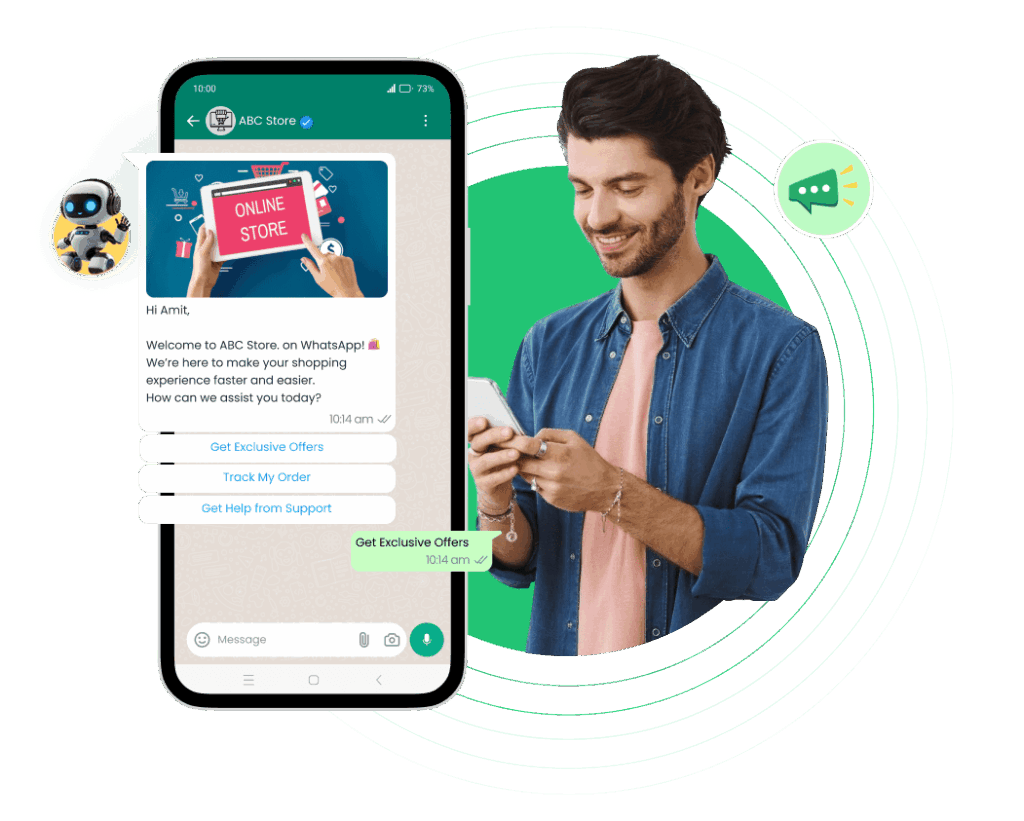
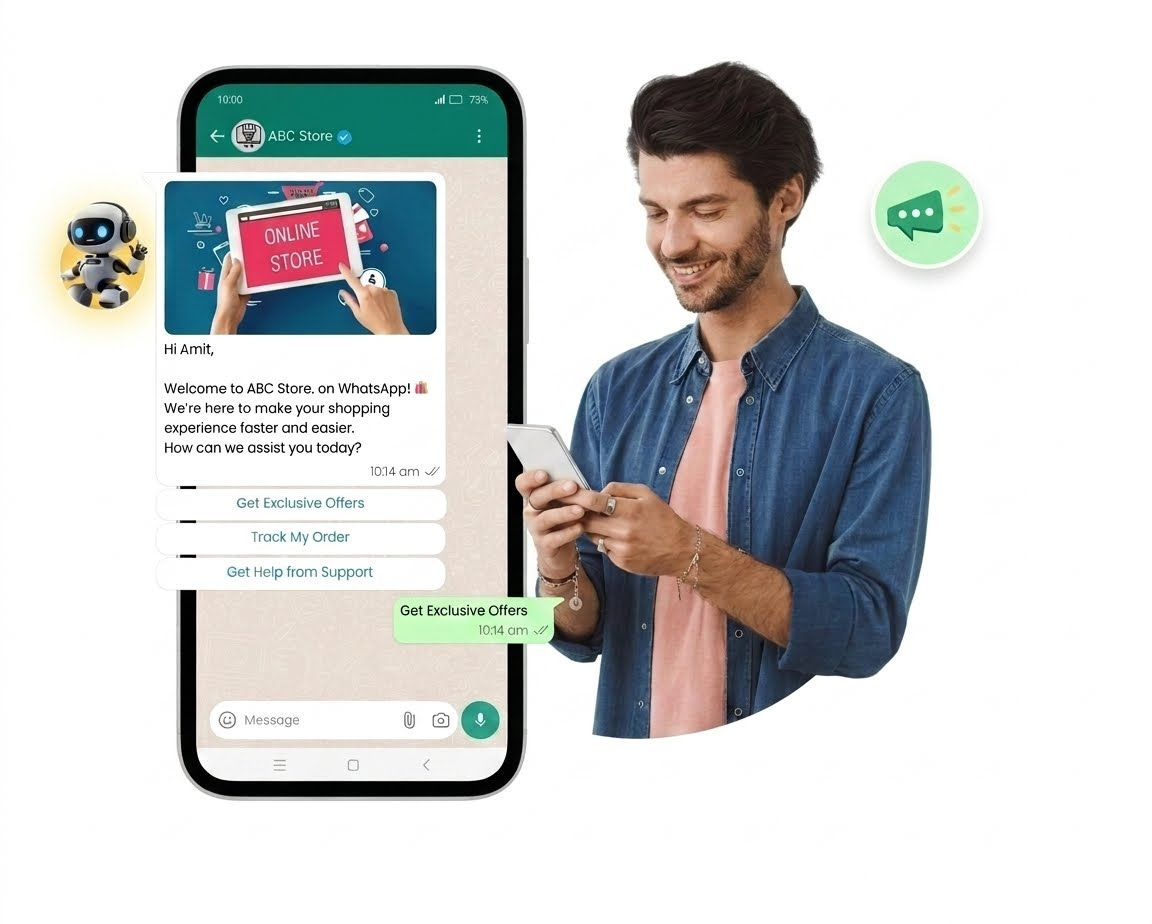
Fix solution image rendering

diff --git a/app/solutions/industry-solution-data.ts b/app/solutions/industry-solution-data.ts
@@ -47,7 +47,7 @@ export type IndustrySolutionConfig = {
   servicesTitle: string
   servicesBody: string
   services: Array<{ icon: LucideIcon; title: string; body: string }>
-  imageOne: { src: string; alt: string }
+  imageOne: { src: string; alt: string; width?: number; height?: number; unoptimized?: boolean }
   imageTwo: { src: string; alt: string }
   audiencesLabel: string
   audiencesTitle: string
@@ -360,8 +360,8 @@ export const solutionPages: Record<string, IndustrySolutionConfig> = {
       { icon: Megaphone, title: "Campaign Broadcasts", body: "Runs launch, sale, restock, and repeat-purchase campaigns on WhatsApp." },
       { icon: Bot, title: "Agent Handoff", body: "Escalates high-value shoppers or complex return cases with full context." },
     ],
-    imageOne: { src: "/images/e_commerce_2.png", alt: "E-commerce customer automation" },
-    imageTwo: { src: "/images/e_commerce_1.png", alt: "E-commerce customer automation" },
+    imageOne: { src: "/images/e_commerce_1.png", alt: "E-commerce customer automation" },
+    imageTwo: { src: "/images/e_commerce_2.png", alt: "E-commerce customer automation" },
     audiencesLabel: "Who it helps",
     audiencesTitle: "One WhatsApp system for D2C, retail, marketplace, and support teams.",
     audiences: [
@@ -555,7 +555,7 @@ export const solutionPages: Record<string, IndustrySolutionConfig> = {
       { icon: Megaphone, title: "Batch Campaigns", body: "Promotes new batches, crash courses, webinars, and exam-alert campaigns." },
       { icon: Bot, title: "Counselor Handoff", body: "Routes hot leads to the right counselor with student context." },
     ],
-    imageOne: { src: "/images/coaching_1.png", alt: "Coaching student automation" },
+    imageOne: { src: "/images/coaching_1.png", alt: "Coaching student automation", width: 1600, height: 800, unoptimized: true },
     imageTwo: { src: "/images/coaching_2.png", alt: "Coaching WhatsApp admission form" },
     audiencesLabel: "Who it helps",
     audiencesTitle: "One WhatsApp system for test prep, skill training, tutors, and online academies.",

diff --git a/app/solutions/industry-solution-page.tsx b/app/solutions/industry-solution-page.tsx
@@ -326,7 +326,14 @@ export function IndustrySolutionPage({ config }: { config: IndustrySolutionConfi
         <section className="bg-slate-950 px-4 py-20 text-white sm:px-6 lg:px-8">
           <div className="mx-auto grid max-w-7xl gap-12 lg:grid-cols-[1fr_0.9fr] lg:items-center">
             <div className="overflow-hidden rounded-lg border border-white/10 bg-white/5 p-3">
-              <Image src={config.imageOne.src} alt={config.imageOne.alt} width={1200} height={900} className="h-auto w-full rounded-md object-cover" />
+              <Image
+                src={config.imageOne.src}
+                alt={config.imageOne.alt}
+                width={config.imageOne.width ?? 1200}
+                height={config.imageOne.height ?? 900}
+                unoptimized={config.imageOne.unoptimized}
+                className="h-auto w-full rounded-md object-contain"
+              />
             </div>
             <div>
               <p className="text-sm font-black uppercase tracking-[0.22em] text-emerald-300">{config.audiencesLabel}</p>
